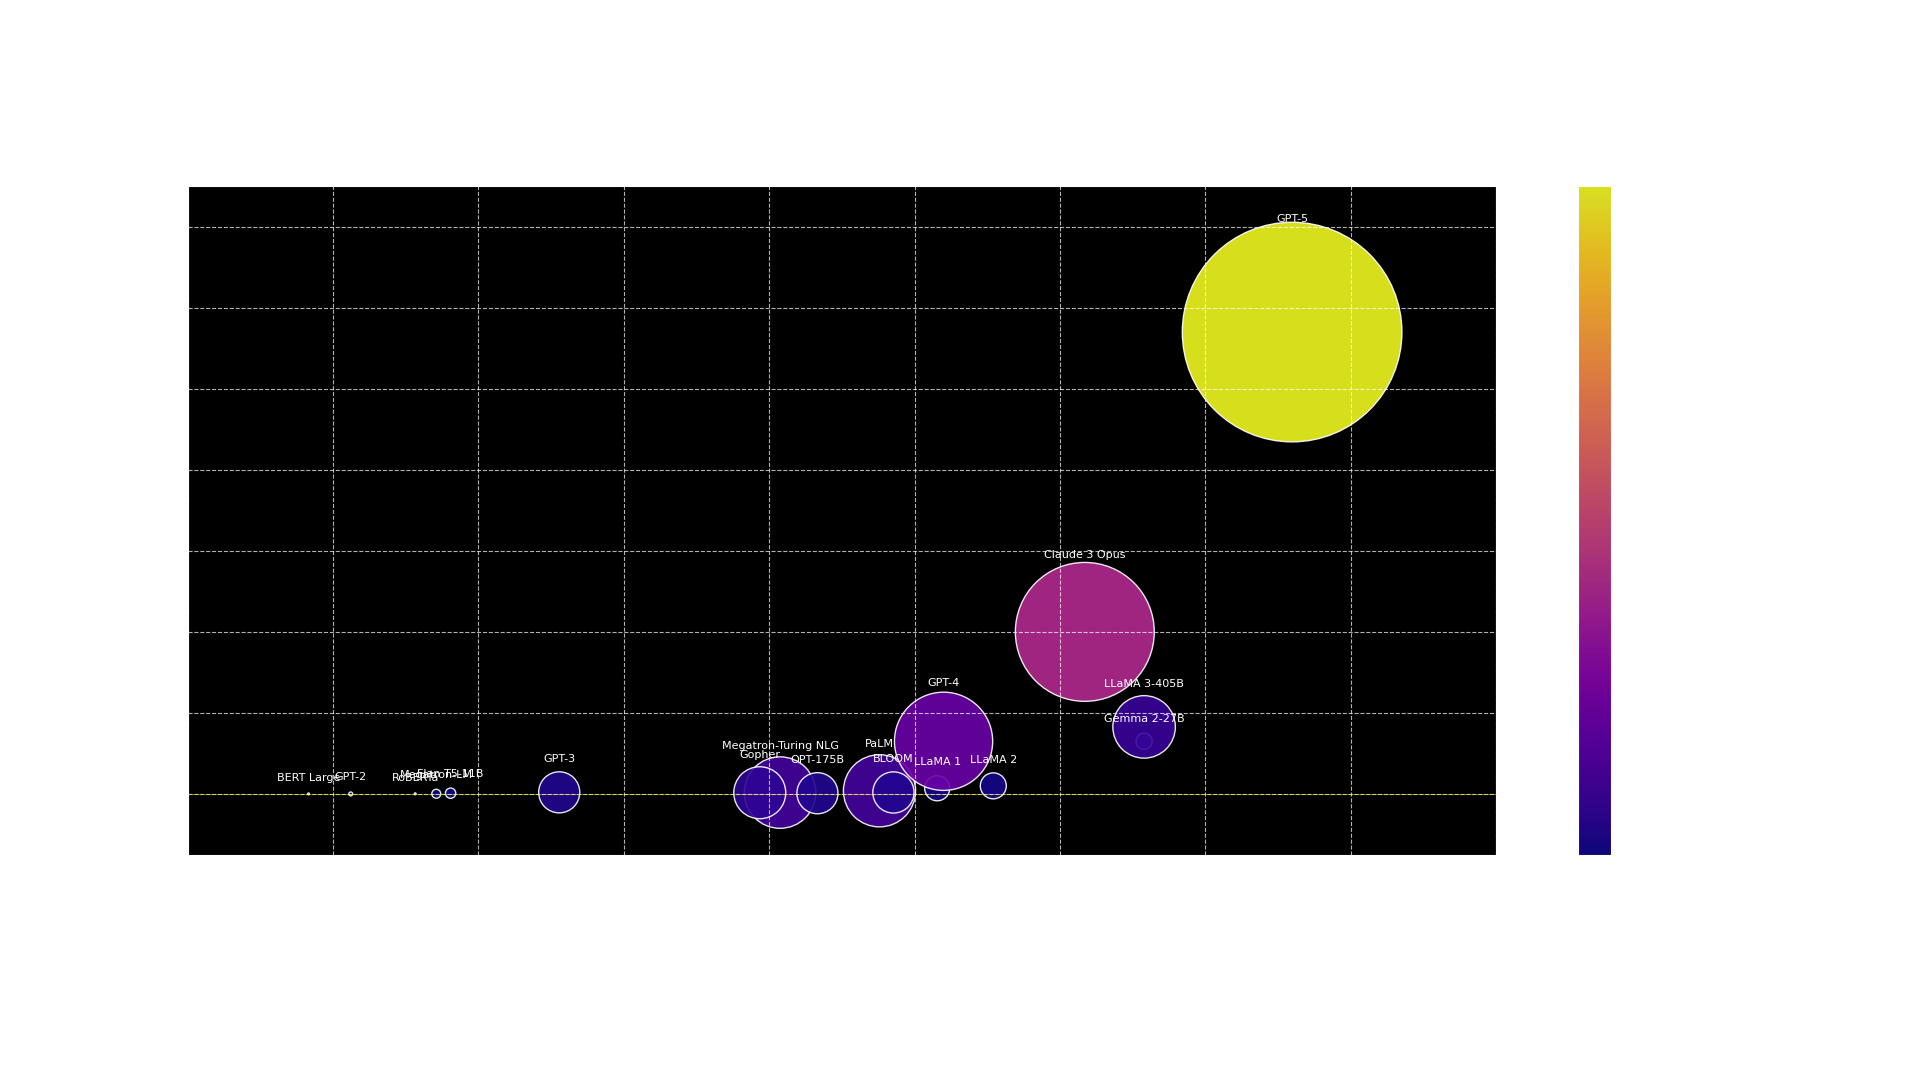
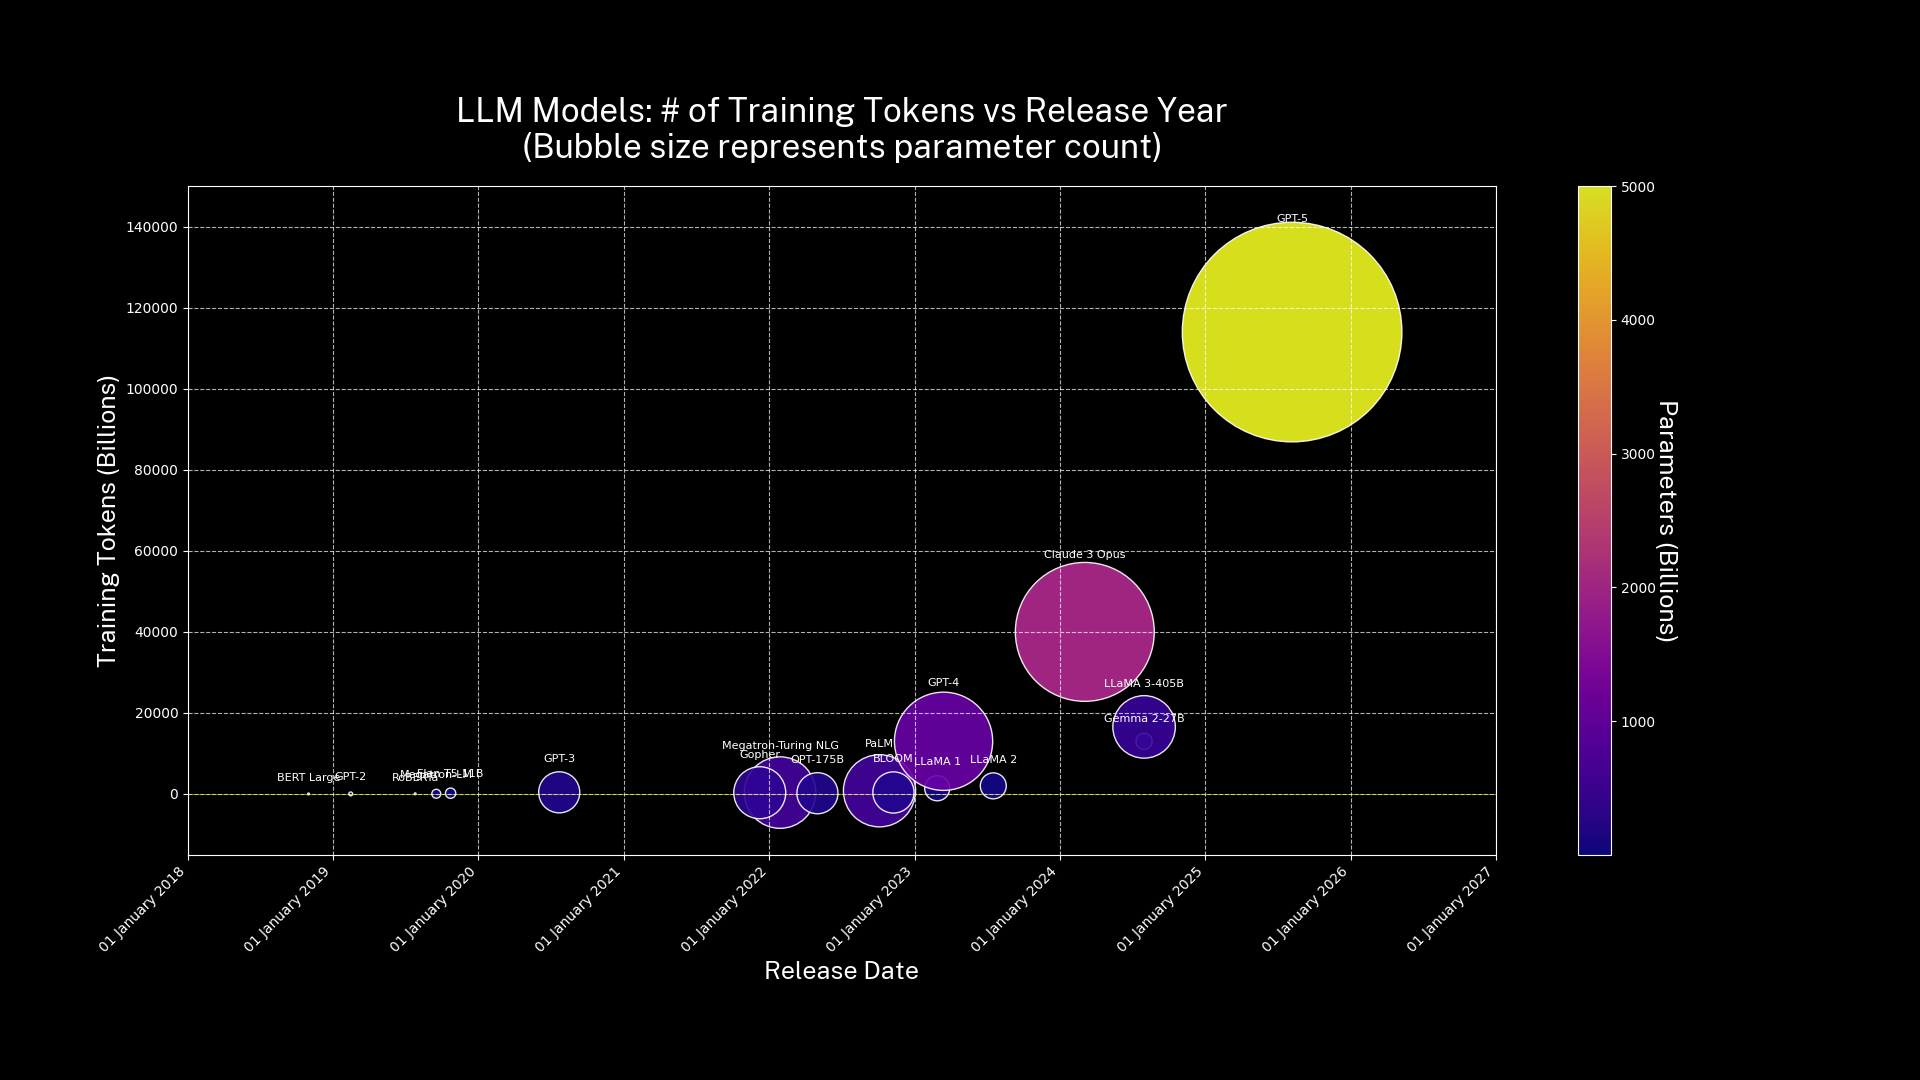
Update rcparams for better viz

diff --git a/visualisation.py b/visualisation.py
@@ -3,6 +3,21 @@ import numpy as np
 import matplotlib.dates as mdates
 from datetime import datetime
 
+plt.rcParams.update({
+    "lines.color": "white",
+    "patch.edgecolor": "white",
+    "text.color": "black",
+    "axes.facecolor": "white",
+    "axes.edgecolor": "lightgray",
+    "axes.labelcolor": "white",
+    "xtick.color": "white",
+    "ytick.color": "white",
+    "grid.color": "lightgray",
+    "figure.facecolor": "black",
+    "figure.edgecolor": "black",
+    "savefig.facecolor": "black",
+    "savefig.edgecolor": "black"})
+
 # date, billions of tokens, billions of parameters
 # Define the data (excluding models with N/A values)
 models = {
